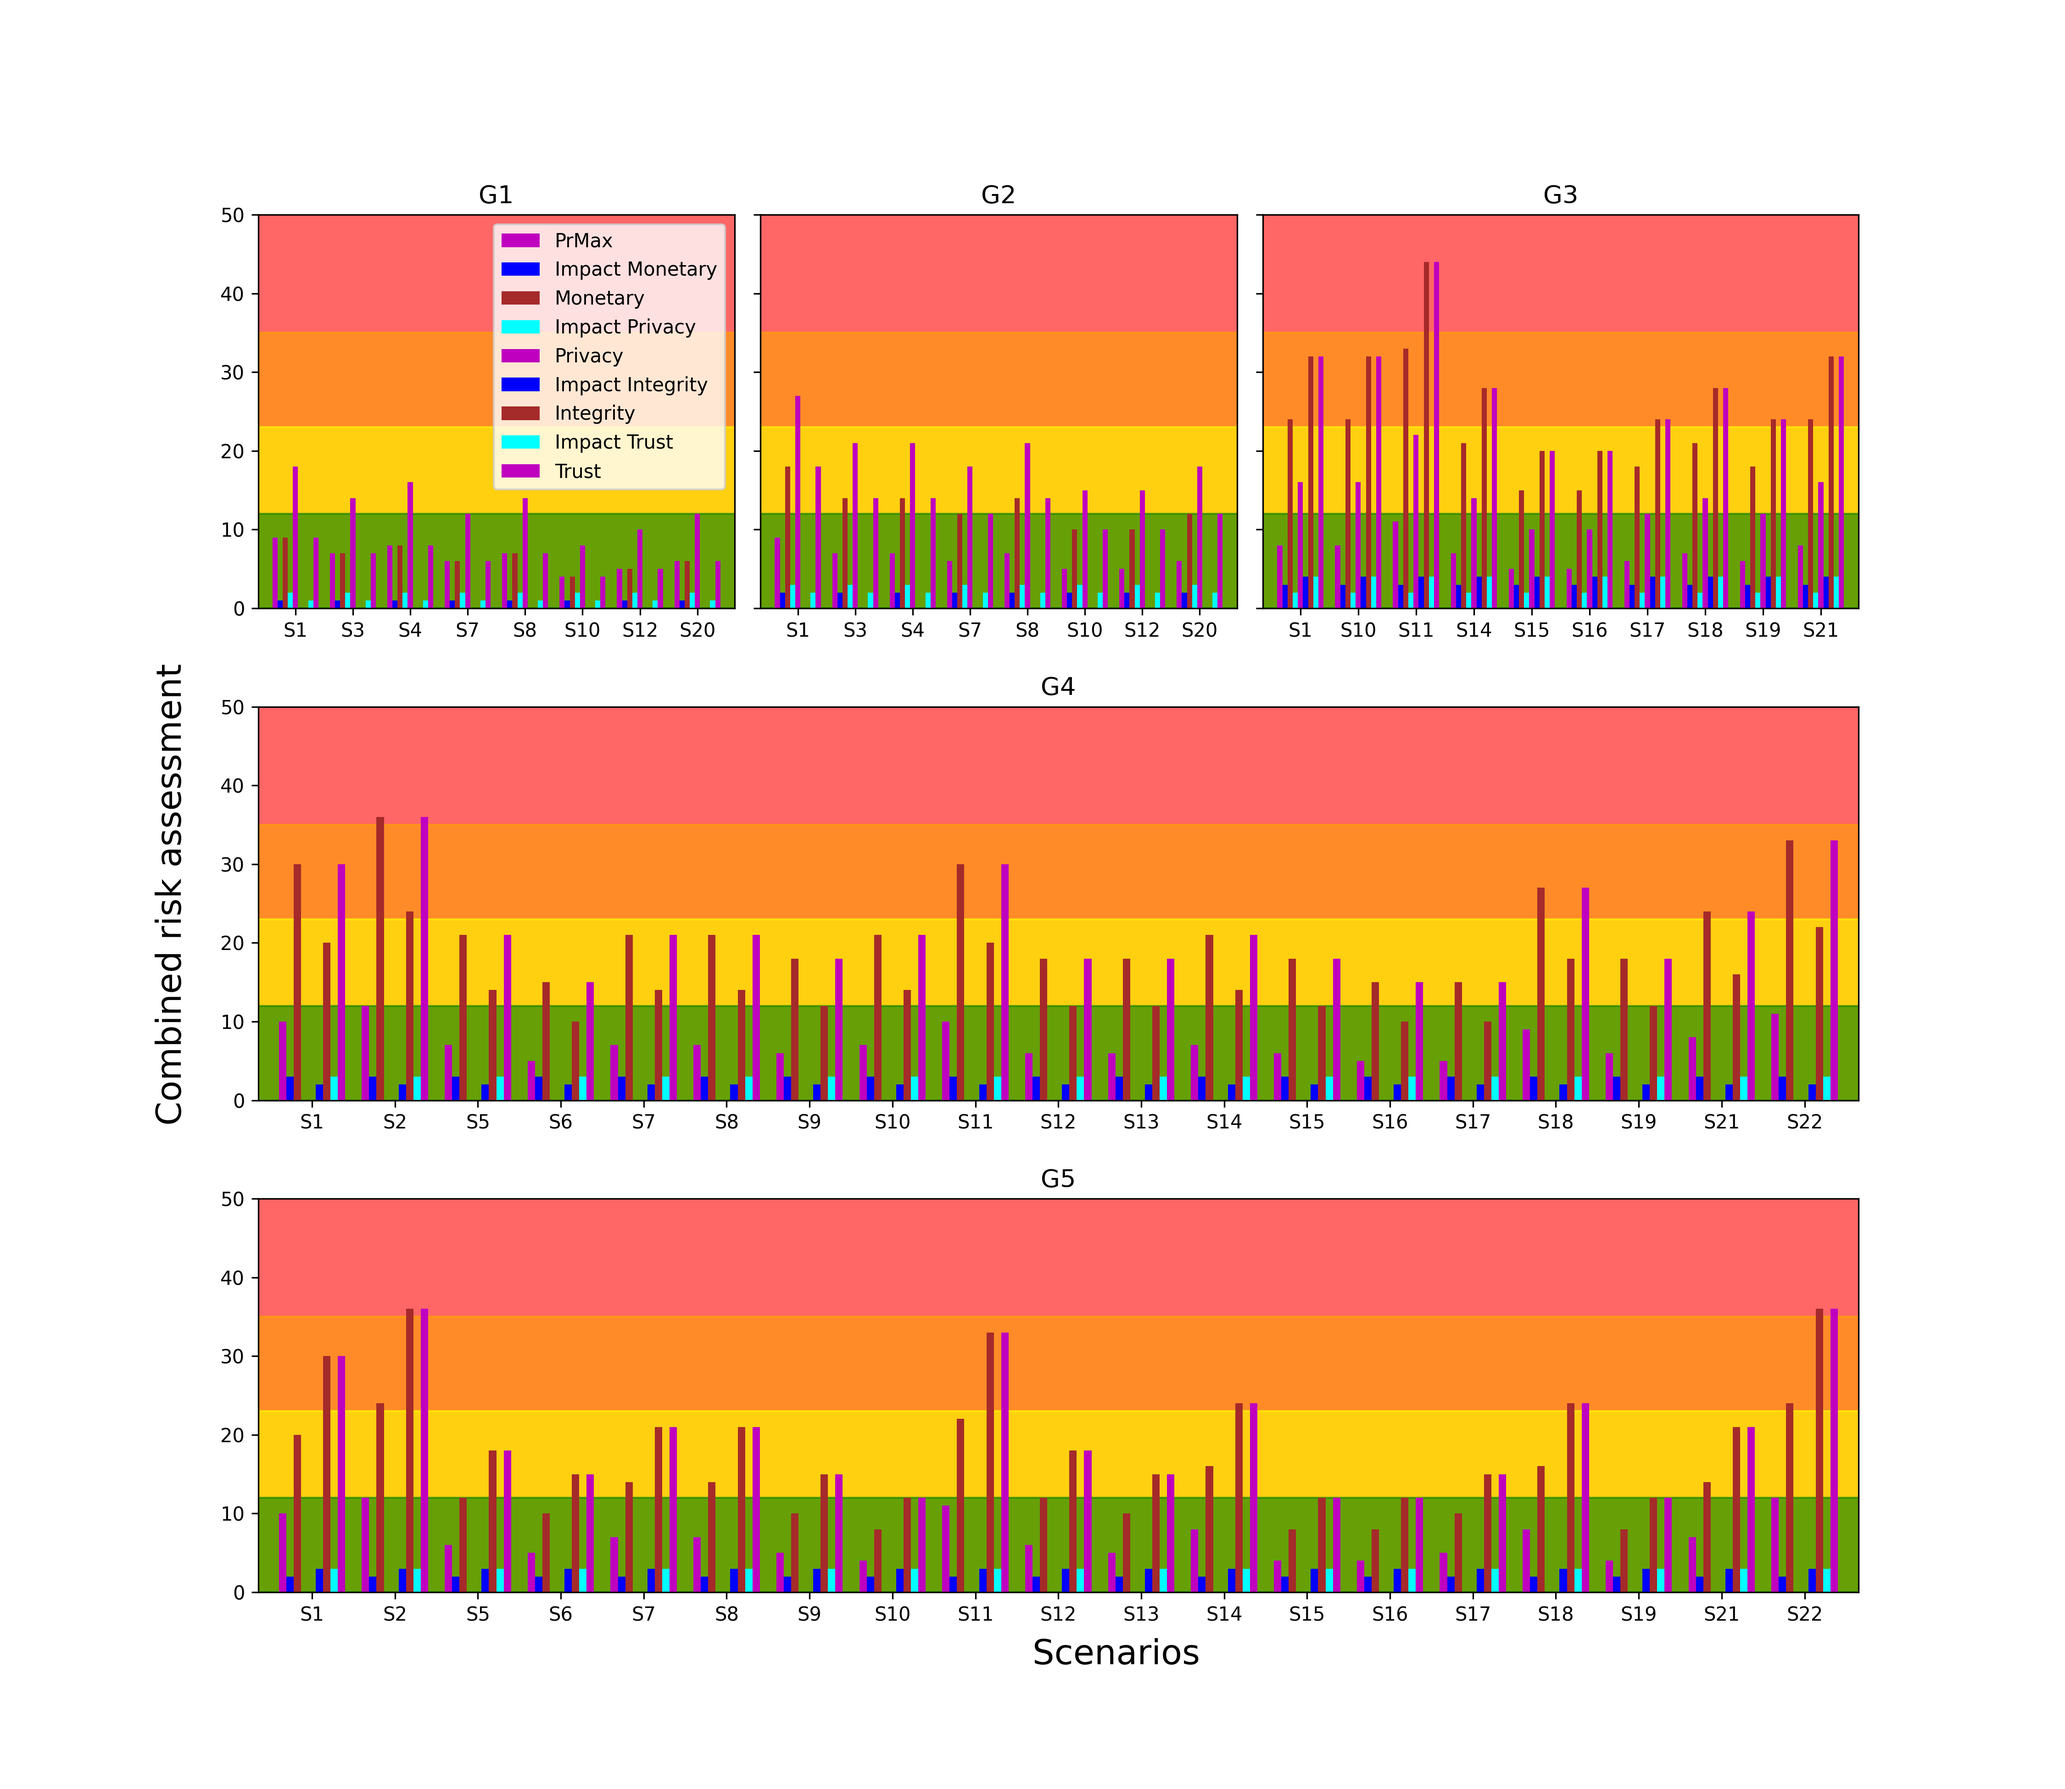
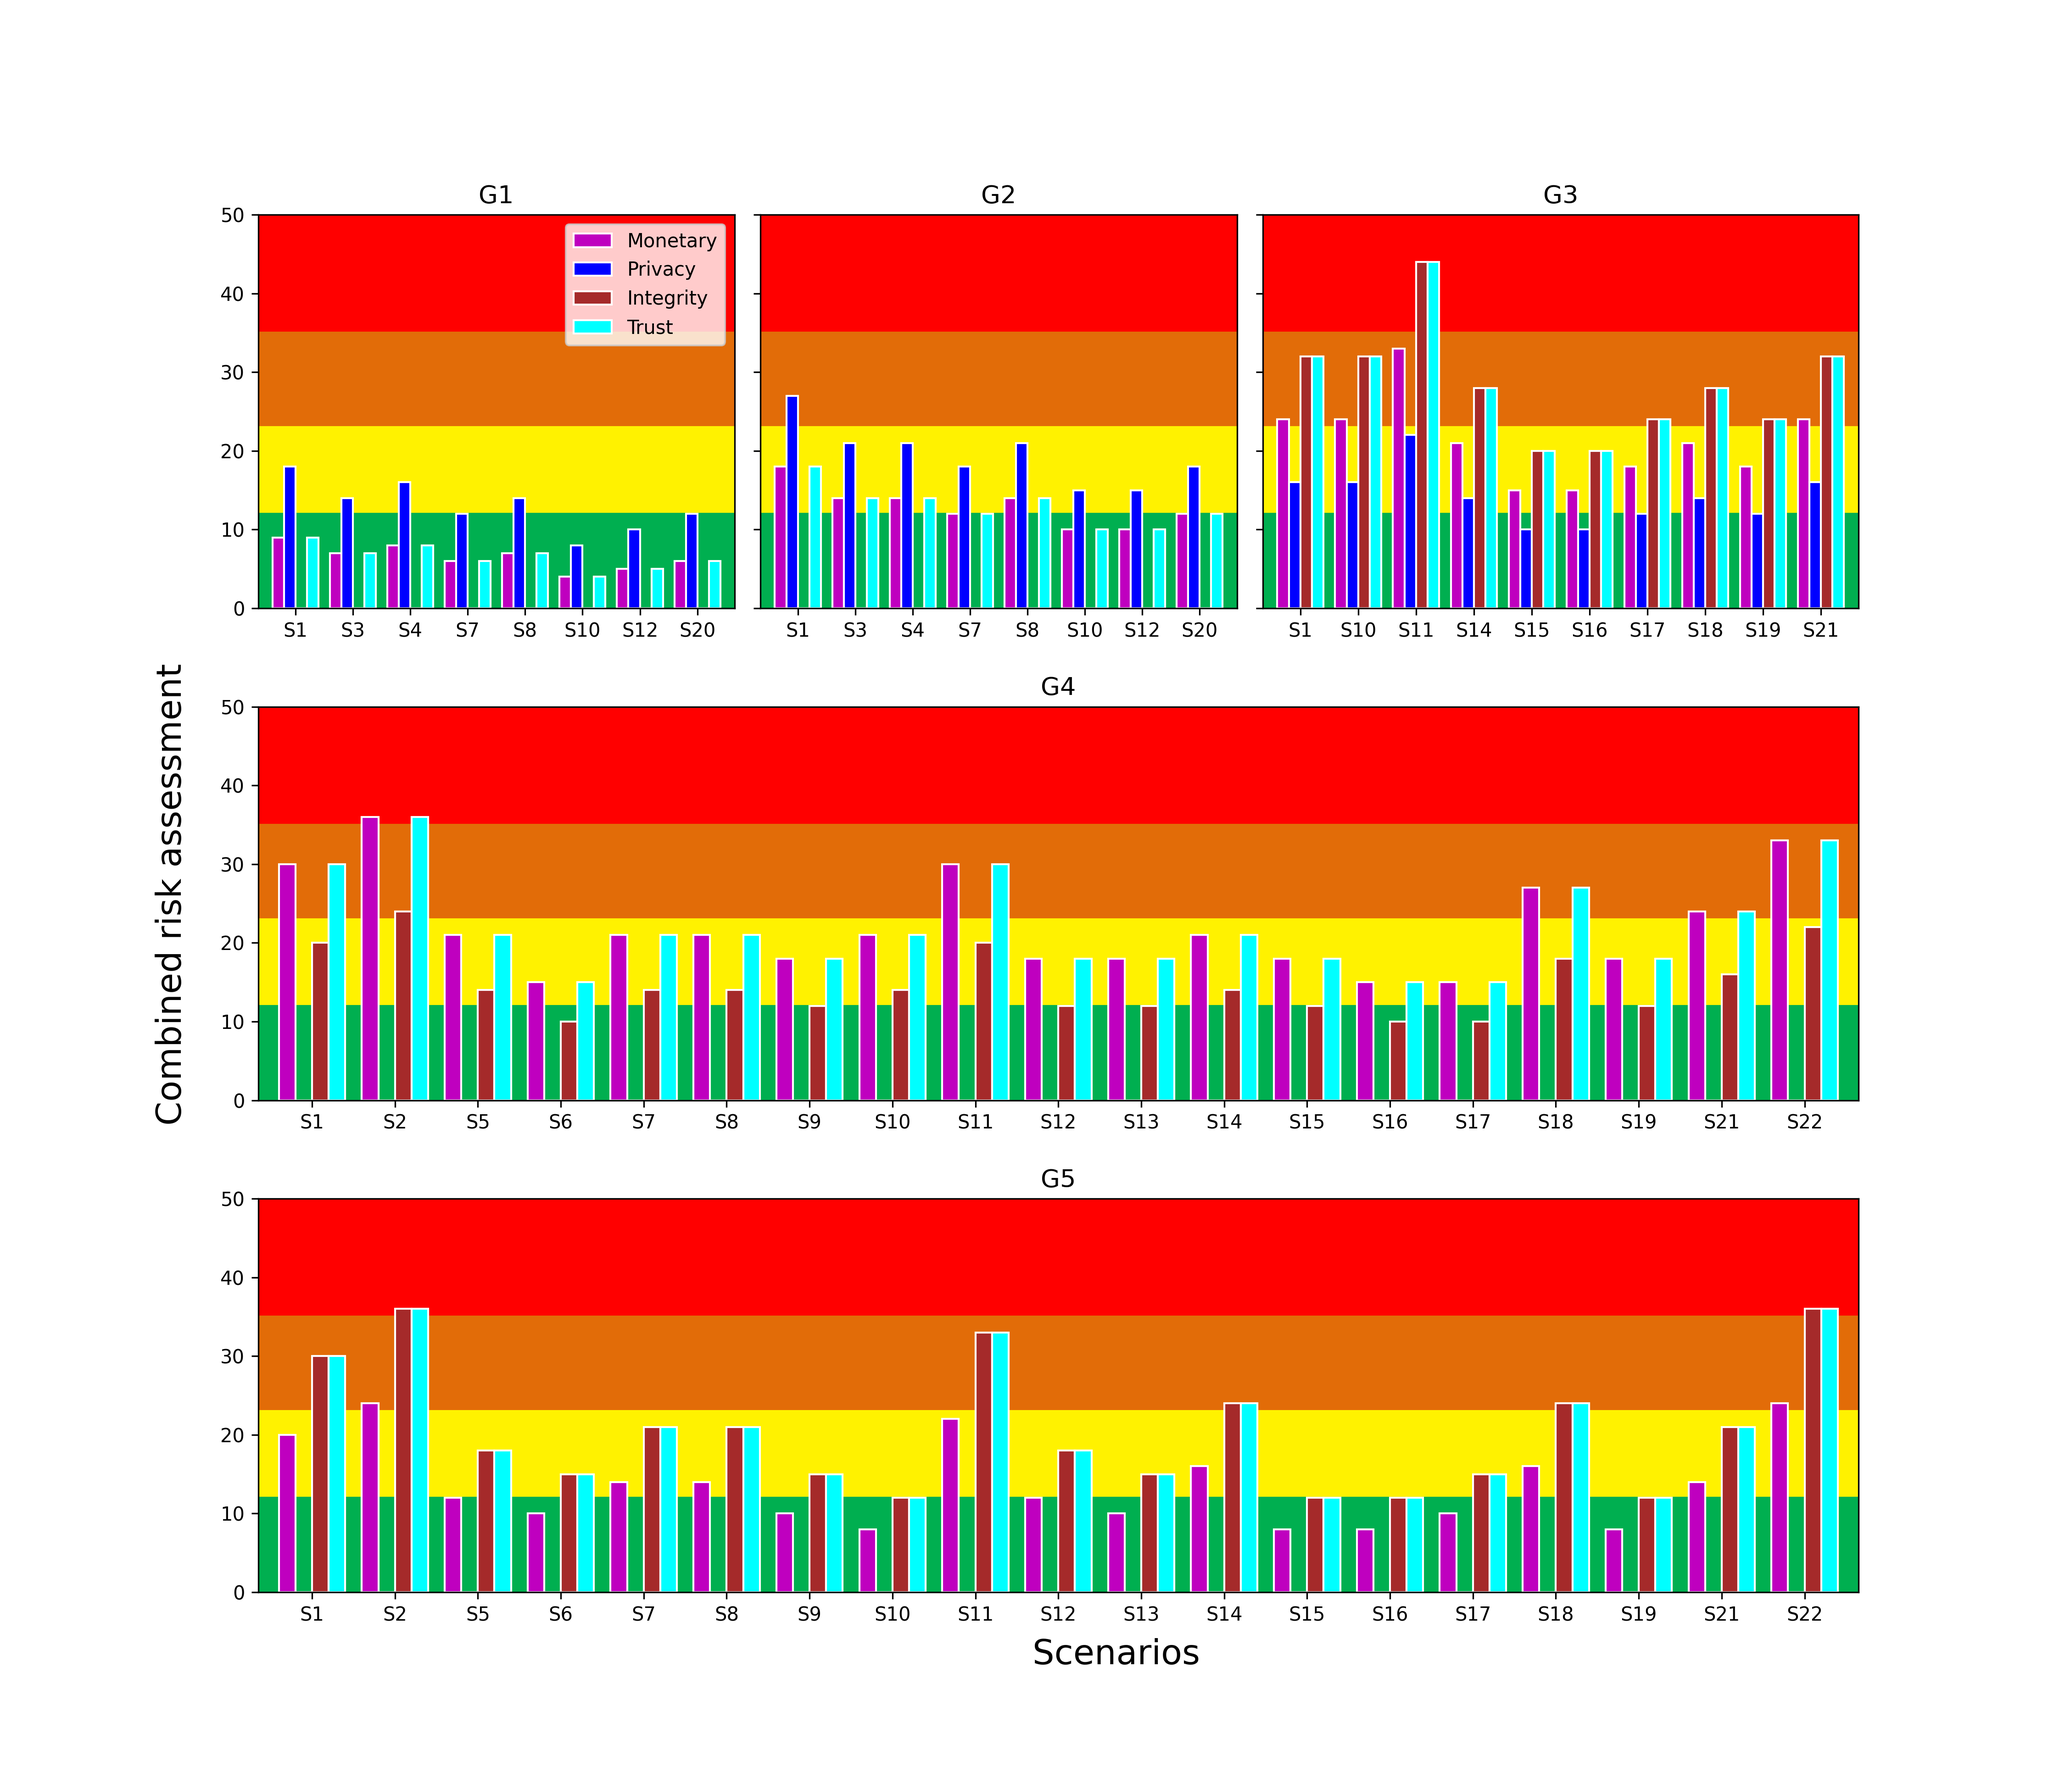
adjust color bar chart

diff --git a/security/risk_assessment_framework/impact_analysis.py b/security/risk_assessment_framework/impact_analysis.py
@@ -22,7 +22,7 @@ print("The combined risk assessment is {}, {} the risk".format(combined_risk_ass
 # Create the risk characterization table for all attack goals at all scenarios and impacts
 get_risk_characterization_table(threats, impact_by_attack)
 
-goals = pd.read_csv("supporting_files/combined_risk_assessment_table.csv")
+goals = pd.read_csv("supporting_files/combined_risk_assessment_table.csv", usecols=(0,1,4,7,10,13))
 G1 = goals.loc[goals['Attack Goal'] == 'G1']
 G2 = goals.loc[goals['Attack Goal'] == 'G2']
 G3 = goals.loc[goals['Attack Goal'] == 'G3']
@@ -32,11 +32,10 @@ G5 = goals.loc[goals['Attack Goal'] == 'G5']
 fig1 = plt.figure(figsize=(15, 13))
 gs = gridspec.GridSpec(3, 3, width_ratios=[4, 4, 5])
 gs.update(wspace=0.05, hspace=0.25)
+
 # G1
-
-
 f1_ax1 = plt.subplot(gs[0, :-2])
-G1_ax = G1.plot(kind="bar", color=['m', 'blue', 'brown', 'cyan'], width=.8, ax=f1_ax1)
+G1_ax = G1.plot(kind="bar", color=['m', 'blue', 'brown', 'cyan'], edgecolor='white', width=.8, ax=f1_ax1)
 G1_ax.set_ylim([0, 50])
 x = np.arange(-1,10,0.1)
 negligible = 12
@@ -45,15 +44,14 @@ undesirable = 35
 unacceptable = 50
 G1_ax.set_title('G1', fontsize=13)
 plt.xticks(range(0, len(G1['Scenario'])), G1['Scenario'], rotation=0)
-G1_ax.fill_between(x, unacceptable, color='r', alpha=0.6)
-G1_ax.fill_between(x, undesirable, color='orange', alpha=0.6)
-G1_ax.fill_between(x, acceptable, color='yellow', alpha=0.6)
-G1_ax.fill_between(x, negligible, color='g', alpha=0.6)
-
+G1_ax.fill_between(x, unacceptable, color='r')
+G1_ax.fill_between(x, undesirable, color=(0.886, 0.424, 0.031))
+G1_ax.fill_between(x, acceptable, color=(1, 0.949, 0))
+G1_ax.fill_between(x, negligible, color=(0, 0.686, 0.314))
 
 # G2
 f1_ax2 = plt.subplot(gs[0, 1:-1])
-G2_ax = G2.plot(kind="bar", color=['m', 'blue', 'brown', 'cyan'], width=.8, ax=f1_ax2)
+G2_ax = G2.plot(kind="bar", color=['m', 'blue', 'brown', 'cyan'], edgecolor='white', width=.8, ax=f1_ax2)
 G2_ax.set_ylim([0, 50])
 x = np.arange(-1,10,0.1)
 negligible = 12
@@ -64,14 +62,14 @@ G2_ax.set_title('G2', fontsize=13)
 plt.xticks(range(0, len(G2['Scenario'])), G2['Scenario'], rotation=0)
 G2_ax.tick_params(labelleft=False)
 G2_ax.get_legend().remove()
-G2_ax.fill_between(x, unacceptable, color='r', alpha=0.6)
-G2_ax.fill_between(x, undesirable, color='orange', alpha=0.6)
-G2_ax.fill_between(x, acceptable, color='yellow', alpha=0.6)
-G2_ax.fill_between(x, negligible, color='g', alpha=0.6)
+G2_ax.fill_between(x, unacceptable, color='r')
+G2_ax.fill_between(x, undesirable, color=(0.886, 0.424, 0.031))
+G2_ax.fill_between(x, acceptable, color=(1, 0.949, 0))
+G2_ax.fill_between(x, negligible, color=(0, 0.686, 0.314))
 
-#
+#G3
 f1_ax3 = plt.subplot(gs[0, 2:])
-G3_ax = G3.plot(kind="bar", color=['m', 'blue', 'brown', 'cyan'], width=.8, ax=f1_ax3)
+G3_ax = G3.plot(kind="bar", color=['m', 'blue', 'brown', 'cyan'], edgecolor='white', width=.8, ax=f1_ax3)
 G3_ax.set_ylim([0, 50])
 x = np.arange(-1,10,0.1)
 negligible = 12
@@ -82,13 +80,14 @@ G3_ax.set_title('G3', fontsize=13)
 plt.xticks(range(0, len(G3['Scenario'])), G3['Scenario'], rotation=0)
 G3_ax.tick_params(labelleft=False)
 G3_ax.get_legend().remove()
-G3_ax.fill_between(x, unacceptable, color='r', alpha=0.6)
-G3_ax.fill_between(x, undesirable, color='orange', alpha=0.6)
-G3_ax.fill_between(x, acceptable, color='yellow', alpha=0.6)
-G3_ax.fill_between(x, negligible, color='g', alpha=0.6)
+G3_ax.fill_between(x, unacceptable, color='r')
+G3_ax.fill_between(x, undesirable, color=(0.886, 0.424, 0.031))
+G3_ax.fill_between(x, acceptable, color=(1, 0.949, 0))
+G3_ax.fill_between(x, negligible, color=(0, 0.686, 0.314))
 
+# G4
 f1_ax4 = plt.subplot(gs[1, :])
-G4_ax = G4.plot(kind="bar", color=['m', 'blue', 'brown', 'cyan'], width=.8, ax=f1_ax4)
+G4_ax = G4.plot(kind="bar", color=['m', 'blue', 'brown', 'cyan'], edgecolor='white', width=.8, ax=f1_ax4)
 G4_ax.set_ylim([0, 50])
 x = np.arange(-1,22,0.1)
 negligible = 12
@@ -98,13 +97,14 @@ unacceptable = 50
 G4_ax.set_title('G4', fontsize=13)
 plt.xticks(range(0, len(G4['Scenario'])), G4['Scenario'], rotation=0)
 G4_ax.get_legend().remove()
-G4_ax.fill_between(x, unacceptable, color='r', alpha=0.6)
-G4_ax.fill_between(x, undesirable, color='orange', alpha=0.6)
-G4_ax.fill_between(x, acceptable, color='yellow', alpha=0.6)
-G4_ax.fill_between(x, negligible, color='g', alpha=0.6)
+G4_ax.fill_between(x, unacceptable, color='r')
+G4_ax.fill_between(x, undesirable, color=(0.886, 0.424, 0.031))
+G4_ax.fill_between(x, acceptable, color=(1, 0.949, 0))
+G4_ax.fill_between(x, negligible, color=(0, 0.686, 0.314))
 
+# G5
 f1_ax5 = plt.subplot(gs[2, :])
-G5_ax = G5.plot(kind="bar", color=['m', 'blue', 'brown', 'cyan'], width=.8, ax=f1_ax5)
+G5_ax = G5.plot(kind="bar", color=['m', 'blue', 'brown', 'cyan'], edgecolor='white', width=.8, ax=f1_ax5)
 G5_ax.set_ylim([0, 50])
 x = np.arange(-1,22,0.1)
 negligible = 12
@@ -114,10 +114,10 @@ unacceptable = 50
 G5_ax.set_title('G5', fontsize=13)
 plt.xticks(range(0, len(G4['Scenario'])), G4['Scenario'], rotation=0)
 G5_ax.get_legend().remove()
-G5_ax.fill_between(x, unacceptable, color='r', alpha=0.6)
-G5_ax.fill_between(x, undesirable, color='orange', alpha=0.6)
-G5_ax.fill_between(x, acceptable, color='yellow', alpha=0.6)
-G5_ax.fill_between(x, negligible, color='g', alpha=0.6)
+G5_ax.fill_between(x, unacceptable, color='r')
+G5_ax.fill_between(x, undesirable, color=(0.886, 0.424, 0.031))
+G5_ax.fill_between(x, acceptable, color=(1, 0.949, 0))
+G5_ax.fill_between(x, negligible, color=(0, 0.686, 0.314))
 
 fig1.text(0.075, 0.5, 'Combined risk assessment', rotation="vertical", va="center", fontsize=18)
 fig1.text(0.5, 0.075 , 'Scenarios', va="center", fontsize=18)
